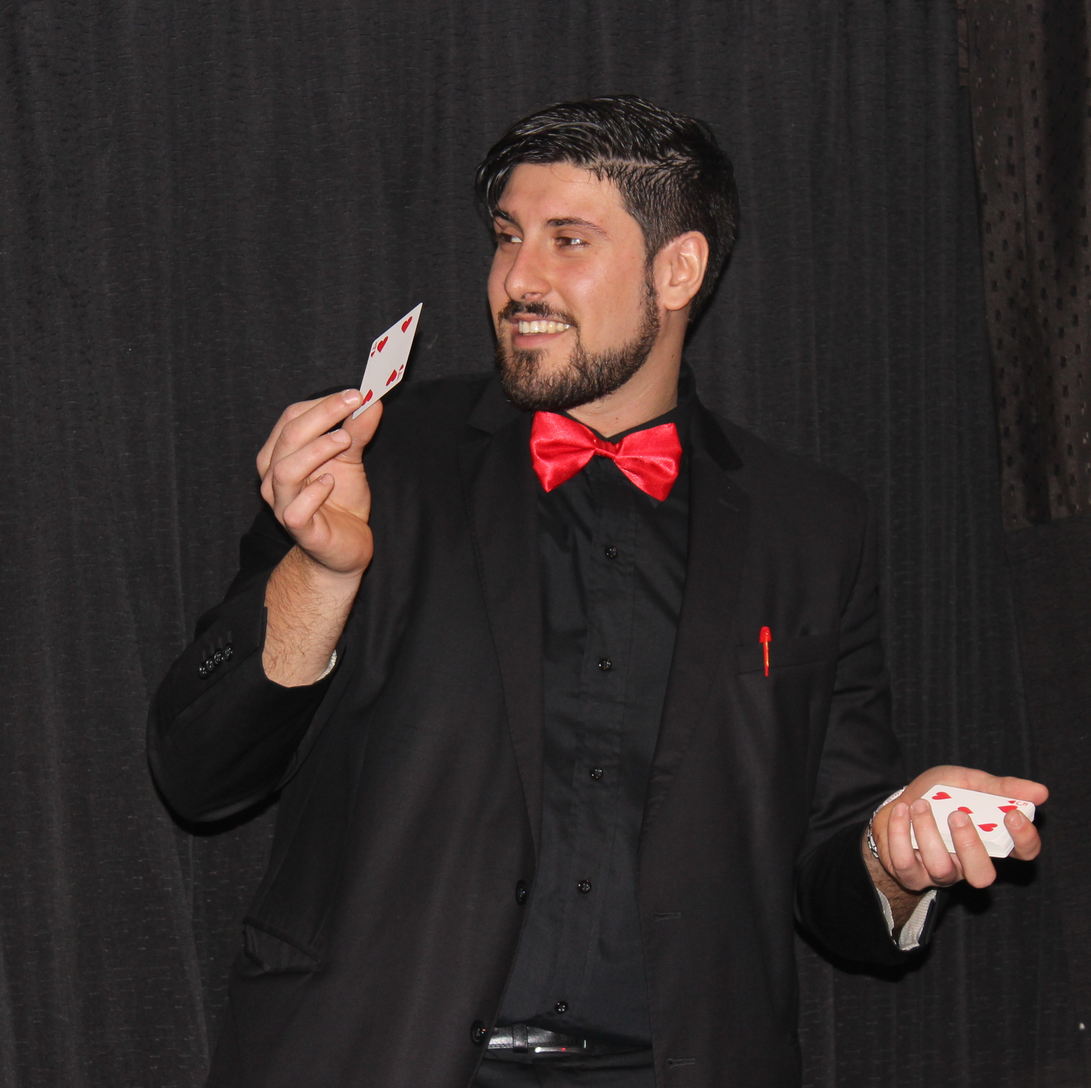
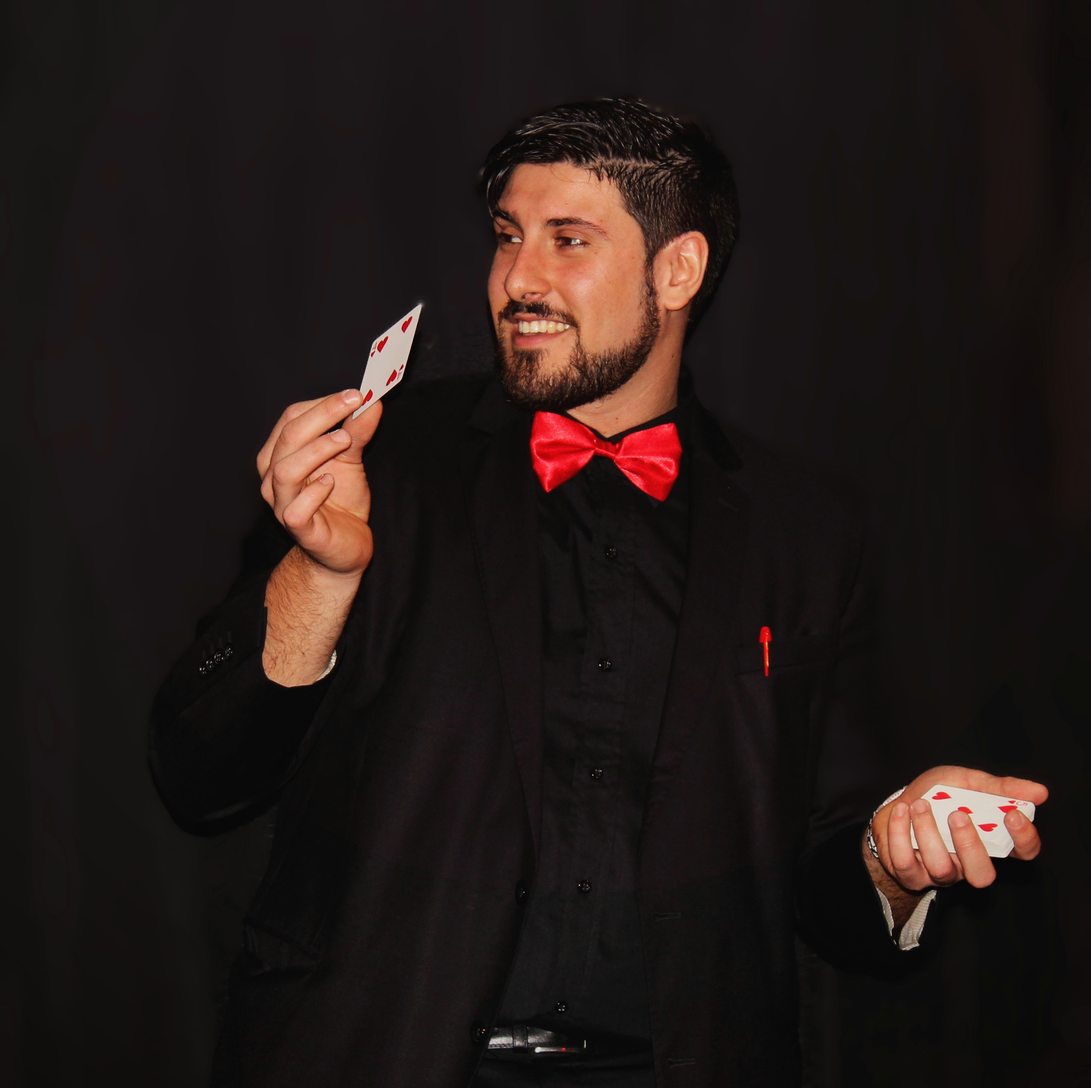
imagenes de show terminadas

diff --git a/estilos.css b/estilos.css
@@ -496,10 +496,10 @@ h1 {
 
 .imgBio1 {
   height: 400px;
-  width: 100vh;
+  width: 80vh;
   grid-area: Bio1;
-  display: grid;
-  place-items: center;
+  display: flex;
+  justify-content: center;
   border-radius: 10px;
   border: solid white 2px;
   box-shadow: 0 0 5px white;
@@ -507,10 +507,10 @@ h1 {
 
 .imgBio2 {
   height: 400px;
-  width: 100vh;
+  width: 80vh;
   grid-area: Bio2;
-  display: grid;
-  place-items: center;
+  display: flex;
+  justify-content: center;
   border-radius: 10px;
   border: solid white 2px;
   box-shadow: 0 0 5px white;
@@ -518,10 +518,10 @@ h1 {
 
 .imgBio3 {
   height: 400px;
-  width: 100vh;
+  width: 80vh;
   grid-area: Bio3;
-  display: grid;
-  place-items: center;
+  display: flex;
+  justify-content: center;
   border-radius: 10px;
   border: solid white 2px;
   box-shadow: 0 0 5px white;
@@ -529,10 +529,10 @@ h1 {
 
 .imgBio4 {
   height: 400px;
-  width: 100vh;
+  width: 80vh;
   grid-area: Bio4;
-  display: grid;
-  place-items: center;
+  display: flex;
+  justify-content: center;
   border-radius: 10px;
   border: solid white 2px;
   box-shadow: 0 0 5px white;
@@ -649,6 +649,7 @@ footer:hover {
   padding: 10px;
   margin: 0px;
   background-color: rgb(198, 54, 55);
+  width: 100%;
 }
 
 .subir {

diff --git a/show.html b/show.html
@@ -70,7 +70,7 @@
                     alias repellat voluptates fugit laborum et? Similique, nobis. Nesciunt quidem minus nostrum, ratione
                     reiciendis eaque illo sit tempora nisi dicta repellat aperiam consequatur harum recusandae quas
                     dolor nam deleniti enim?</p>
-                    <img src="./Show/img3.jpg" alt="Magia" class="imgBio3">
+                    <img src="./Show/img7.jpg" alt="Magia" class="imgBio3">
                 <h2 class="show-tipo7 titulo">Show para evento empresariales</h2>
                 <p class="show-tipo8 p">Lorem ipsum dolor sit amet, consectetur adipisicing elit. Ea sit, vero fuga rem
                     accusantium earum beatae temporibus architecto maiores saepe? Excepturi eum ipsa porro natus?

diff --git a/estilos.scss b/estilos.scss
@@ -394,10 +394,10 @@ h1 {
     @each $Bio in Bio1,Bio2,Bio3,Bio4{
         .img#{$Bio}{
             height: 400px;
-            width: 100vh;
+            width: 80vh;
             grid-area: $Bio;
-            display: grid;
-            place-items:center;
+            display: flex;
+            justify-content: center;
             border-radius: 10px;
             border: solid white 2px;
             box-shadow: 0 0 5px white;
@@ -520,6 +520,7 @@ footer:hover {
     padding: 10px;
     margin: 0px;
     background-color: rgb(198, 54, 55);
+    width: 100%;
 }
 
 .subir {
